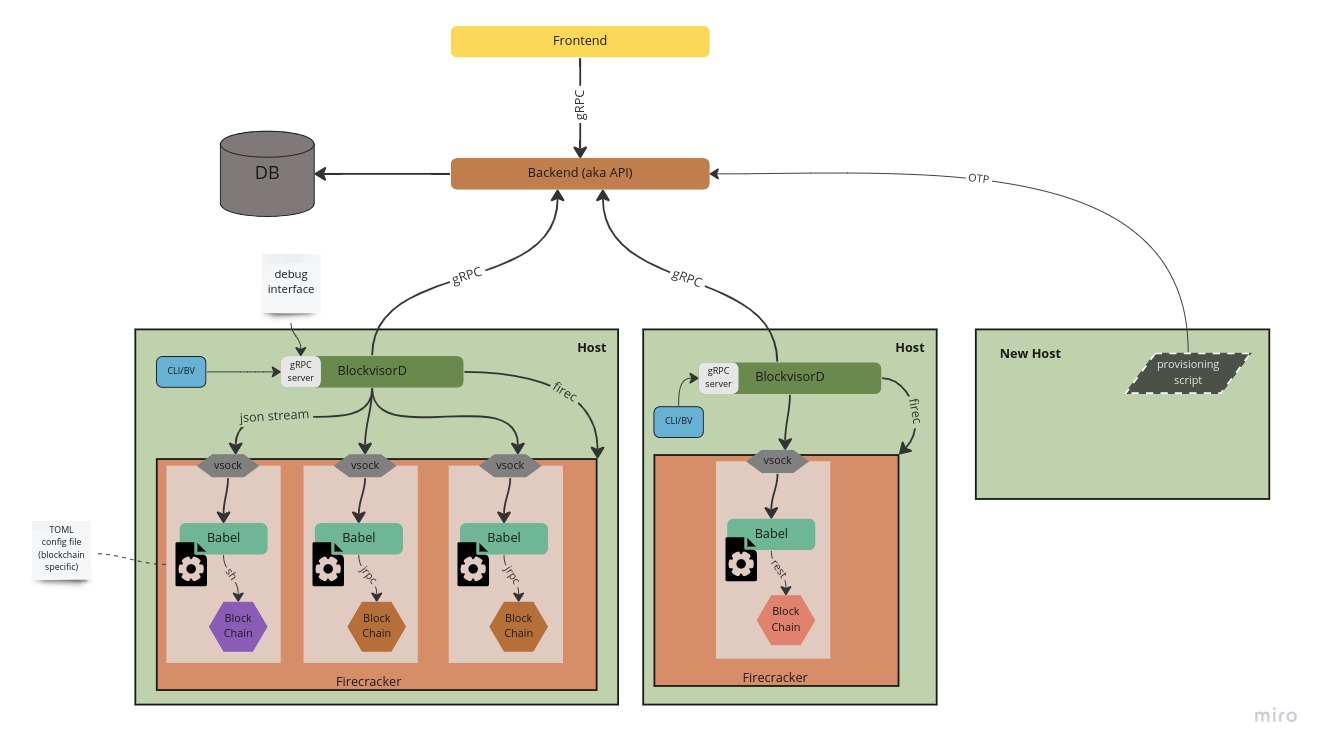
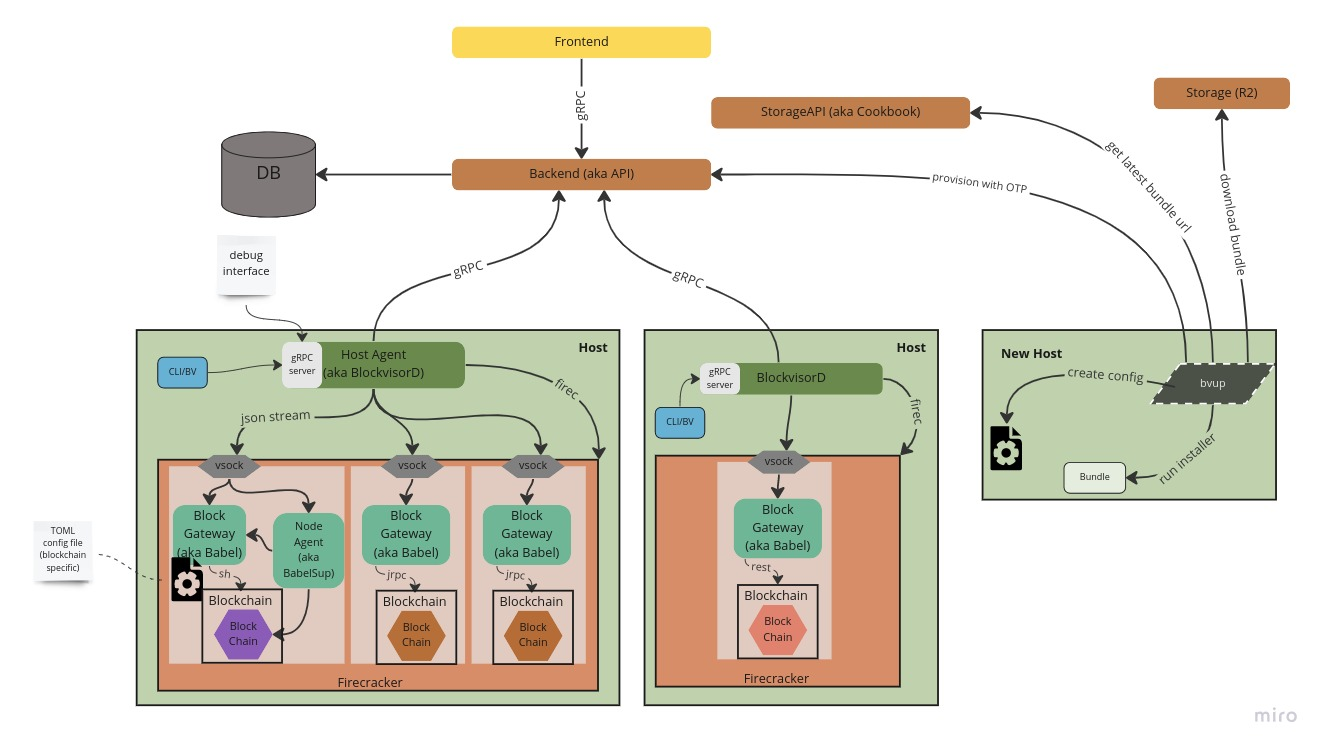
Docs update

diff --git a/README.md b/README.md
@@ -8,14 +8,17 @@ The service that runs on the host systems and is responisble for provisioning an
 2. Run `make tag` to create a version tag
 3. CI `publish` workflow will then build a bundle and create a new GH release
 
-## Prerequisites
+## Host Setup
+
+### Prerequisites
+ - networking is set up (including `bvbr0` bridge interface)
+ - dependencies are installed `apt install tmux pigz util-linux e2fsprogs`
+ - got `bvup` binary and **O**ne **T**ime **P**assword
 
 ```sh
-apt install tmux pigz util-linux e2fsprogs
+./bvup <OTP> 
 ```
-
-## Local testing
-See [run_bv_local.md](./run_bv_local.md) 
+See `bvup --help` for more details.
 
 ## API proto files
 
@@ -27,12 +30,38 @@ Note that [git submodules](https://github.blog/2016-02-01-working-with-submodule
 git submodule update --init --recursive
 ```
 
-# High Level Overview
+# Important Paths
+## Host
+- `/opt/blockvisor/blacklist` bundle versions that failed to be installed
+- `/opt/blockvisor/current` symlink to current `<version>`
+- `/opt/blockvisor/<version>/` whole bundle
+- `/etc/blockvisor.toml` generated by `bvup <OTP>`, but can be later modified
+- `/etc/systemd/system/tmux.service`
+- `/etc/systemd/system/blockvisor.service`
+- `/var/lib/blockvisor/nodes/nodes.toml`
+- `/var/lib/blockvisor/nodes/<uuid>.toml` node specific metadata
+- `/var/lib/blockvisor/firecracker/<uuid>/` node specific firecracker data (e.g. copy of images)
+- `/var/lib/blockvisor/images/<protocol>/<node_type>/<node_version>/`
+
+## Node
+- `/usr/bin/babel`
+- `/usr/bin/babelsup`
+- `/etc/babel.conf`
+- `/etc/systemd/system/babelsup.service`
+
+## Bundle
+- `bundle/installer`
+- `bundle/babel/`
+- `bundle/blockvisor/`
+- `bundle/firecracker/`
+
+
+## High Level Overview
 
 ![](overview.jpg)
 
-# Basic Scenarios
-## Add Host - Host Provisioning
+## Basic Scenarios
+### Add Host - Host Provisioning
 
 ```mermaid
 sequenceDiagram
@@ -40,39 +69,39 @@ sequenceDiagram
     participant frontend as Fronted
     participant backend as API
     participant host as Host
-    participant bv as BlockvisorD
+    participant storage as Storage
     
     user->>frontend: add new Host
     frontend->>backend: new Host
     backend-->>frontend: OTP
-    frontend-->>user: provisioning script with OTP
-    user->>host: run provisioning script with OTP
-    host->>host: download images and start BlockvisorD with OTP
-    bv->>backend: ProvisionHostRequest
-    backend-->>bv: ProvisionHostResponse
+    frontend-->>user: bvup with OTP
+    user->>host: run bvup with OTP
+    host->>backend: provision host
+    host->> storage: download bundle
+    host->>host: run bundle installer
 ```
 
-## Add Node
+### Add Node
 
-### Overview
+#### Overview
 
 ```mermaid
 sequenceDiagram
     participant backend as API
     participant bv as BlockvisorD
     participant fc as Firecracker
-    participant babel as Babel
+    participant babelsup as BabelSup
     
     backend->>bv: NodeCreate
     bv-->>backend: InfoUpdate
     bv->>fc: create vm
     backend->>bv: NodeStart
     bv-->>backend: InfoUpdate
-    bv->>fc: start vm with Babel inside
-    babel->>fc: listen for messages on vsock
+    bv->>fc: start vm with BabelSup inside
+    babelsup->>fc: listen for messages on vsock
 ```
 
-### More detailed view including key exchange and node initialization
+#### More detailed view including key exchange and node initialization
 
 ```mermaid
 sequenceDiagram
@@ -119,7 +148,7 @@ sequenceDiagram
     backend -->> frontend: Keys
 ```
 
-## Execute Method on Blockchain
+### Execute Method on Blockchain
 
 ```mermaid
 sequenceDiagram
@@ -129,43 +158,42 @@ sequenceDiagram
 
     cli->>bv: Blockchain Method
     bv->>babel: send(method)
-    babel->>babel: map method to Blockchain API as defined in config.toml
+    babel->>babel: map method to Blockchain API as defined in babel.conf
     babel-->>bv: response
     bv-->>cli: response
 ```
 
-## Self update processes
+### Self update processes
 
 ![](host_self_update.jpg)
 
-### Check for update
+#### Check for update
 
 ```mermaid
 sequenceDiagram
-    participant repo as BlockJoy Repo
+    participant repo as Cookbook+Storage
     participant bv as BlockvisorD
-    participant installer as BlockvisorD.installer
+    participant installer as bundle/installer
     
-    bv ->> repo: check for update on startup
-    activate repo
-    repo -->> bv: no updates
-    deactivate repo
-    bv ->> repo: subscribe update notifications
-    repo ->> bv: new release notification
-    bv ->> repo: download latest version
-    activate repo
-    repo -->> bv: latest bundle with installer
-    deactivate repo
-    bv ->> installer: launch installer
+    loop configurable check interval
+    bv ->> repo: check for update
+        alt
+            repo -->> bv: no updates
+        else
+            repo -->> bv: update available
+            bv ->> repo: download latest bundle
+            bv ->> installer: launch installer
+        end
+    end
 ```
 
-### BlockvisorD update
+#### BlockvisorD update
 
 ```mermaid
 sequenceDiagram
     participant api as API
     participant bv as BlockvisorD
-    participant installer as BlockvisorD.installer
+    participant installer as bundle/installer
     participant sysd as SystemD
     
     alt running version is not blacklisted (this is not rollback)
@@ -200,55 +228,37 @@ sequenceDiagram
     deactivate bv
 ```
 
-### Babel install
+#### Babel install/update
 
 ```mermaid
 sequenceDiagram
     participant bv as BlockvisorD
     participant fc as Firecracker
-    participant babelvisor as BabelvisorD
+    participant babelsup as BabelSup
     participant babel as Babel
     
-    bv ->> fc: start node  
-    activate babelvisor
-    bv ->> babelvisor: send Babel binary
-    babelvisor ->> babel: start
-    alt failed to start Babel
-        babelvisor ->> bv: Babel start error
-    end
-    deactivate babelvisor
-```
-
-### Babel update
-
-```mermaid
-sequenceDiagram
-    participant bv as BlockvisorD
-    participant babelvisor as BabelvisorD
-    participant babel as Babel
-   
-    bv ->> babelvisor: get Babel version
-    activate babelvisor
-    babelvisor -->> bv: Babel version
-    deactivate babelvisor
-    alt version doesn't match expected
-        bv ->> babelvisor: send Babel binary
-        activate babelvisor
-        babelvisor ->> babelvisor: replace Babel binary
+    bv ->> fc: start node
+    activate babelsup
+    babelsup ->> babel: start Babel if exists
+    activate babel
+    Note right of babelsup: otherwise wait for startNewBabel request
+    bv ->> bv: connect BabelSup  
+    activate bv
+    bv ->> babelsup: check Babel binary
+    alt Babel checksum doesn't match
+        bv ->> babelsup: send new Babel binary
+        babelsup ->> babelsup: replace Babel binary
         activate babel
-        babelvisor -->> babel: request graceful shutdowan
+        babelsup -->> babel: request graceful shutdowan
         babel ->> babel: finish pending actions
         babel ->> babel: graceful shutdown
         deactivate babel
-        babelvisor ->> babel: restart
+        babelsup ->> babel: restart
         activate babel
-        babelvisor ->> babel: health check
-        alt uodated version health check pass
-            babelvisor ->> bv: Babel update done
-        else
-            deactivate babel 
-            babelvisor ->> bv: Babel update error
-        end
-        deactivate babelvisor
     end
+    bv ->> babel: ping Babel
+
+    deactivate babel
+    deactivate babelsup
+    deactivate bv
 ```
